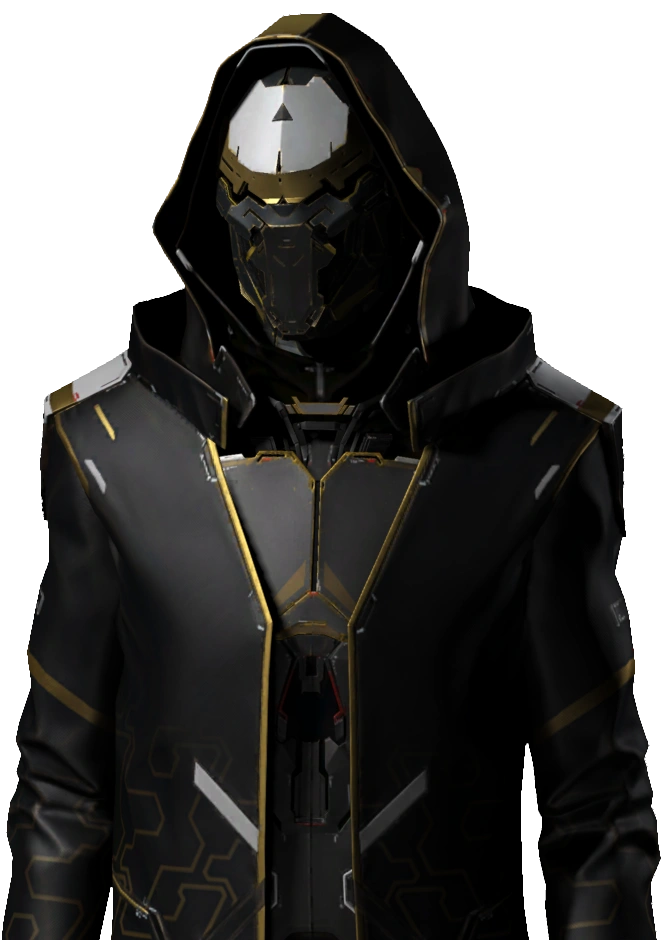
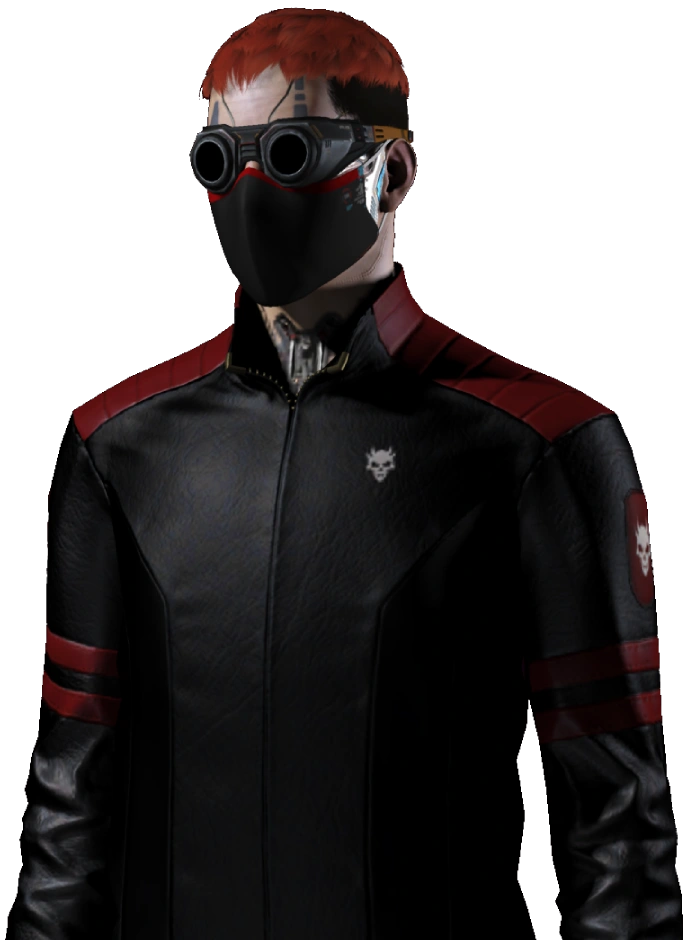
Update Soltech slide

diff --git a/frontend/app/.astro/types.d.ts b/frontend/app/.astro/types.d.ts
@@ -1,2 +1,1 @@
 /// <reference types="astro/client" />
-/// <reference path="content.d.ts" />